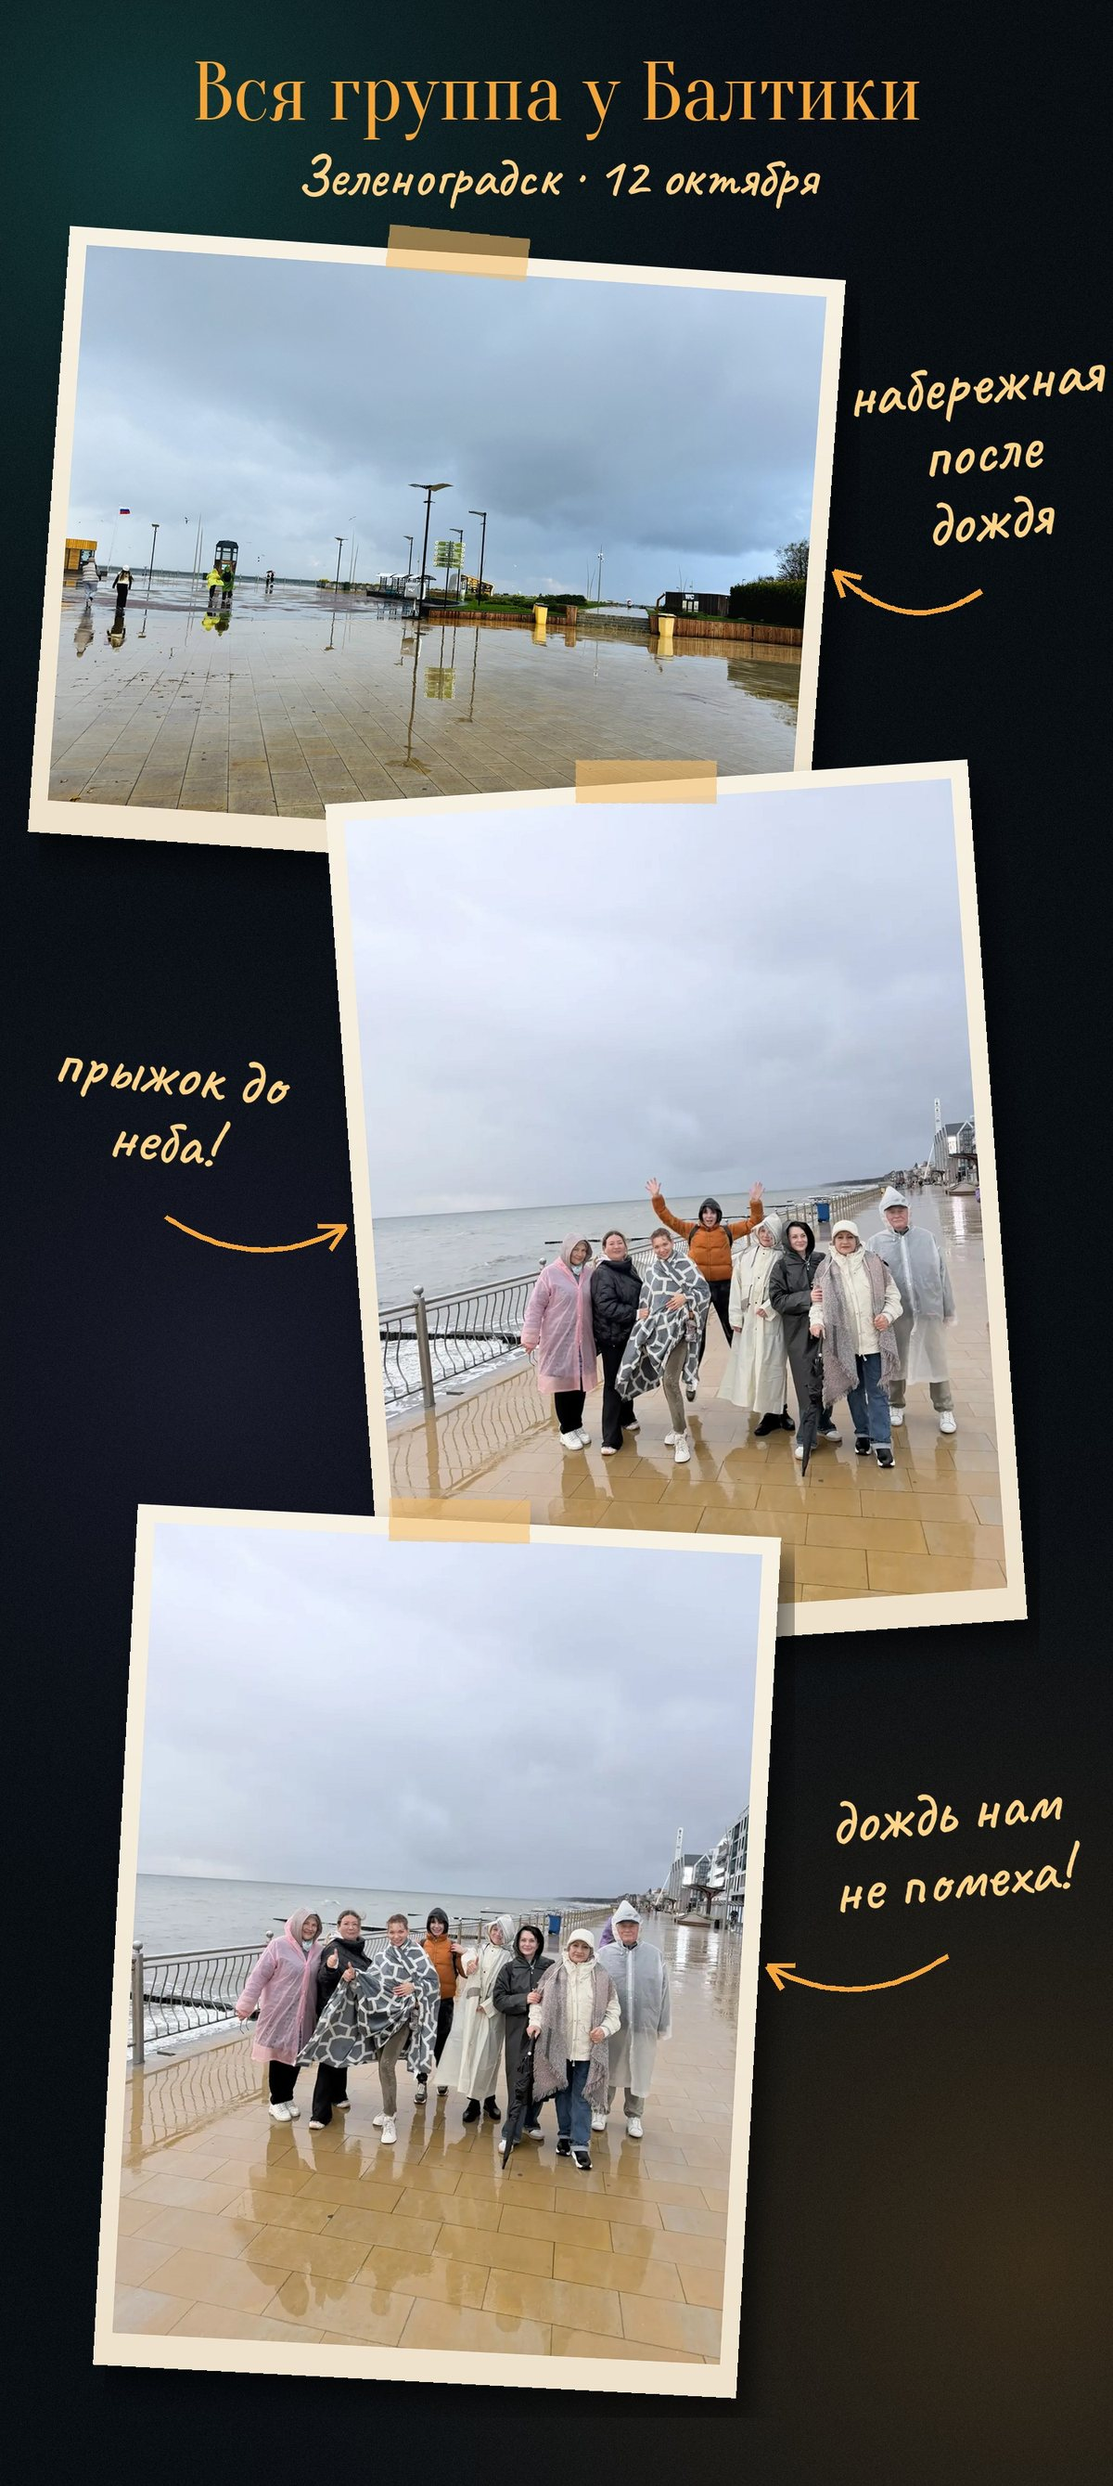
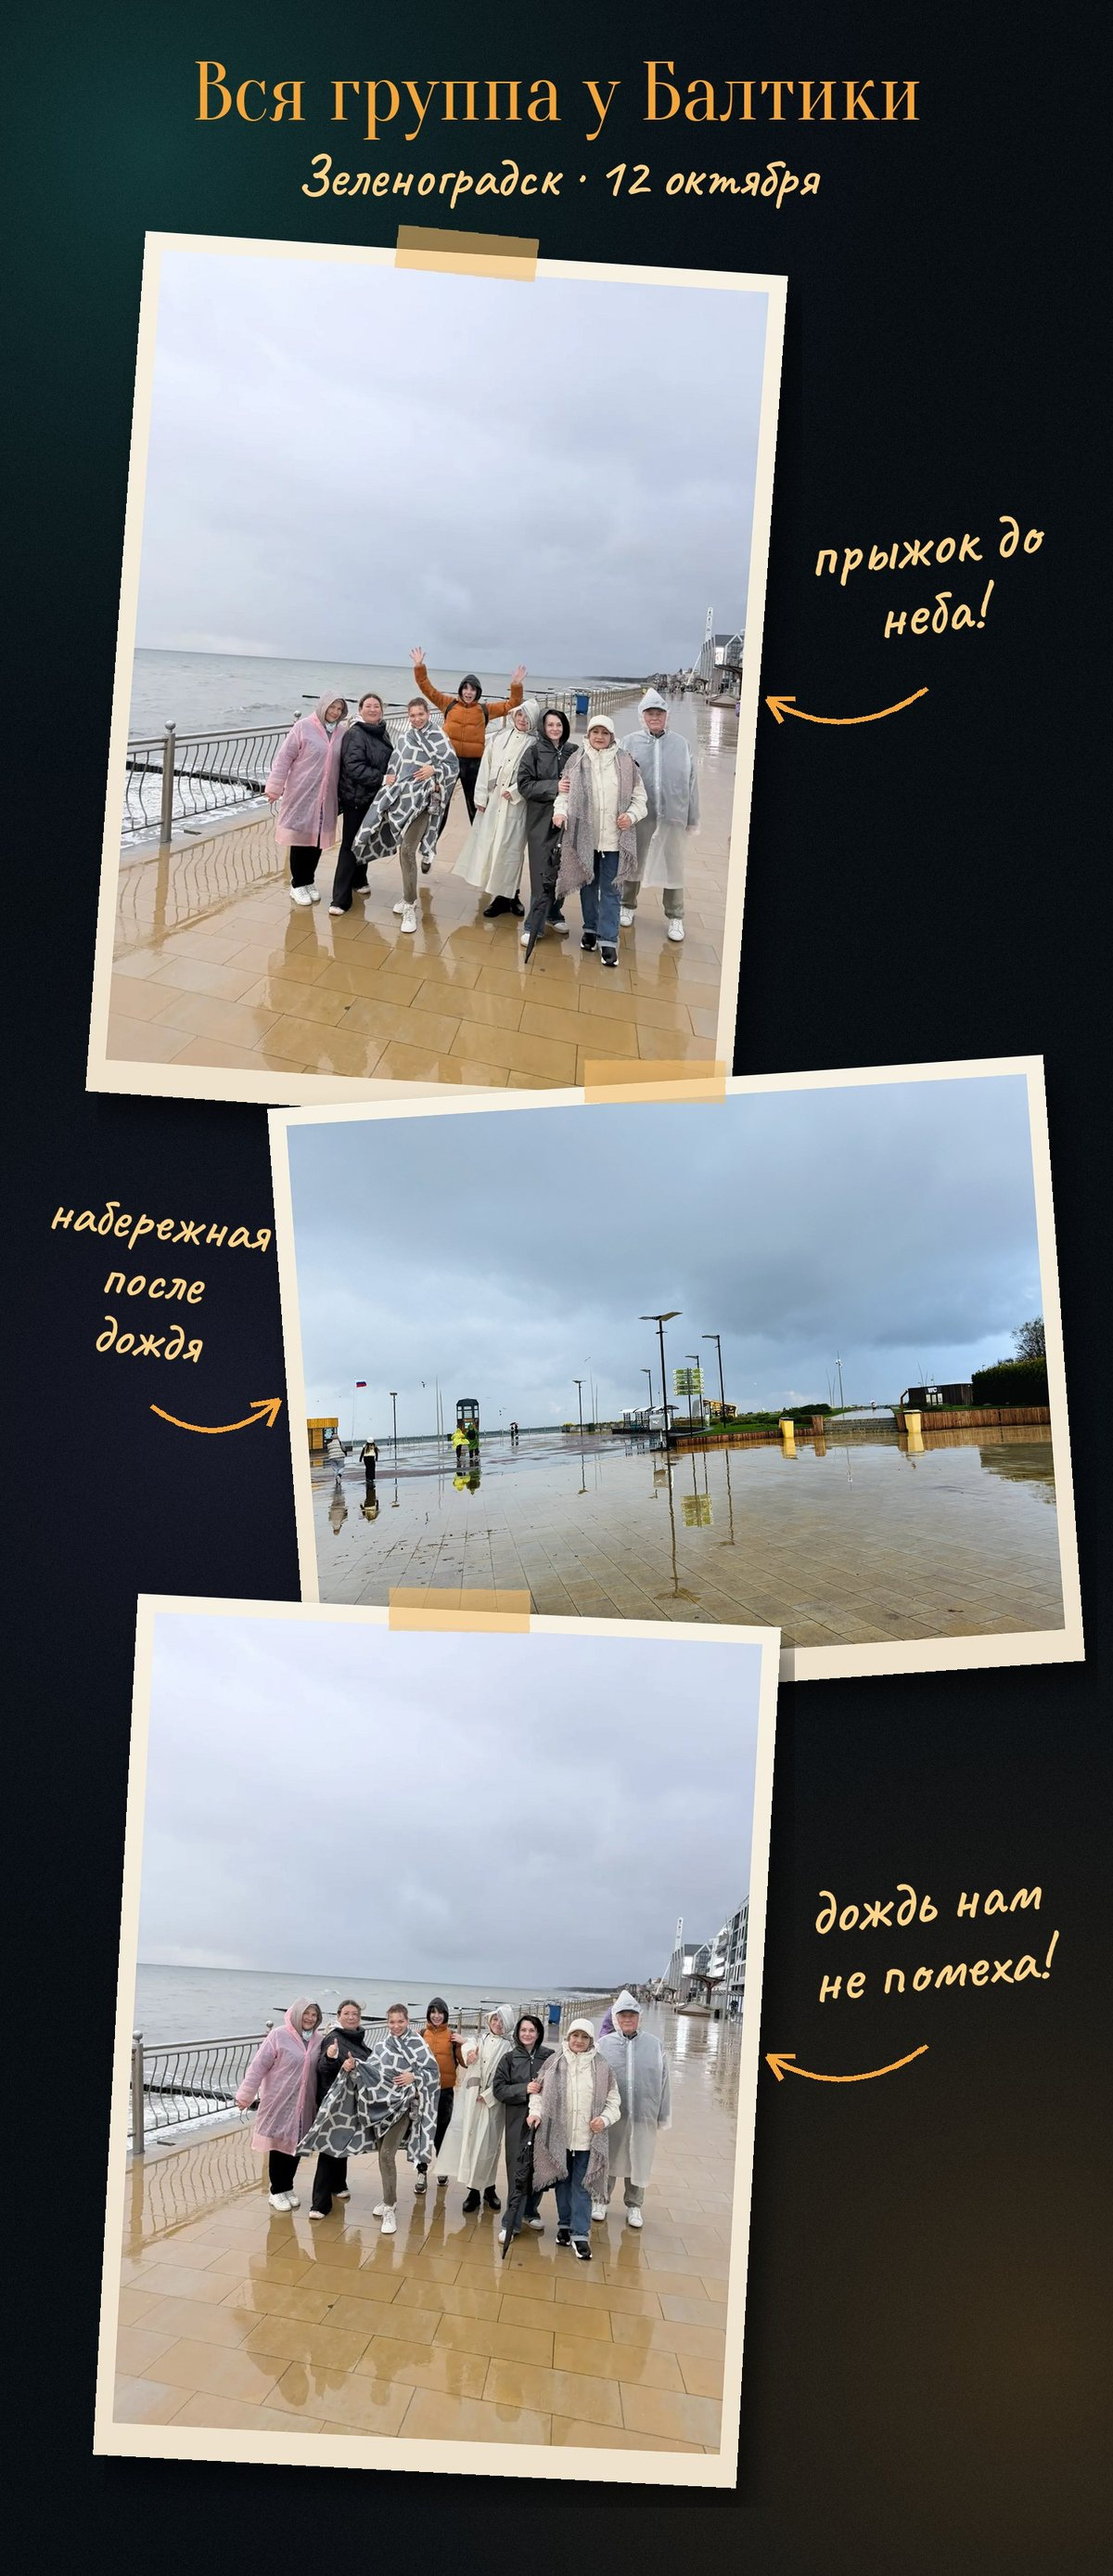
Альбом «Калининград»: страница «Вся группа у Балтики» — набережная в центре
По просьбе: сверху «прыжок до неба!», в центре «набережная после дождя», снизу «дождь нам не помеха!».

Claude-Session: https://claude.ai/code/session_01BUmNQ2Kk9fTi5P6tnA3gYJ

diff --git a/kaliningrad/album/index.html b/kaliningrad/album/index.html
@@ -706,7 +706,7 @@ body.picking .wrap{padding-bottom:calc(var(--nav-h) + 230px + env(safe-area-inse
  {"id": "d2-61", "day": 2, "src": "photos/d2-61.jpg", "thumb": "photos/t/d2-61.jpg", "w": 1500, "h": 2000, "town": "zel", "title": "Краеведческий музей Зеленоградска", "date": "2026-10-12"},
  {"id": "d2-62", "day": 2, "src": "photos/d2-62.jpg", "thumb": "photos/t/d2-62.jpg", "w": 1500, "h": 2000, "town": "zel", "title": "Дворик краеведческого музея", "date": "2026-10-12"},
  {"id": "d2-78", "day": 2, "src": "photos/d2-78.jpg", "thumb": "photos/t/d2-78.jpg", "w": 1200, "h": 2906, "town": "zel", "title": "Дома вдоль улицы", "date": "2026-10-12", "collage": true},
- {"id": "d2-77", "day": 2, "src": "photos/d2-77.jpg", "thumb": "photos/t/d2-77.jpg", "w": 1200, "h": 2679, "town": "zel", "title": "Вся группа у Балтики", "date": "2026-10-12", "collage": true},
+ {"id": "d2-77", "day": 2, "src": "photos/d2-77.jpg?v=2", "thumb": "photos/t/d2-77.jpg?v=2", "w": 1200, "h": 2775, "town": "zel", "title": "Вся группа у Балтики", "date": "2026-10-12", "collage": true},
  {"id": "d2-65", "day": 2, "type": "video", "src": "photos/d2-65.mp4?v=2", "poster": "photos/d2-65.jpg", "thumb": "photos/t/d2-65.jpg", "w": 720, "h": 1280, "dur": 5.5, "muted": true, "place": "zel", "title": "Прогулка по набережной к колесу обозрения", "date": "2026-10-12", "time": "17:13", "film": false},
  {"id": "d2-66", "day": 2, "type": "video", "src": "photos/d2-66.mp4?v=3", "poster": "photos/d2-66.jpg", "thumb": "photos/t/d2-66.jpg", "w": 720, "h": 1280, "dur": 5.5, "place": "zel", "title": "Шторм на Балтике и мамуля с зонтом", "date": "2026-10-12", "time": "17:15", "sea": true},
  {"id": "d2-67", "day": 2, "src": "photos/d2-67.jpg", "thumb": "photos/t/d2-67.jpg", "w": 1200, "h": 2913, "place": "zel", "title": "Мамуля и балтийский ветер", "date": "2026-10-12", "collage": true},
